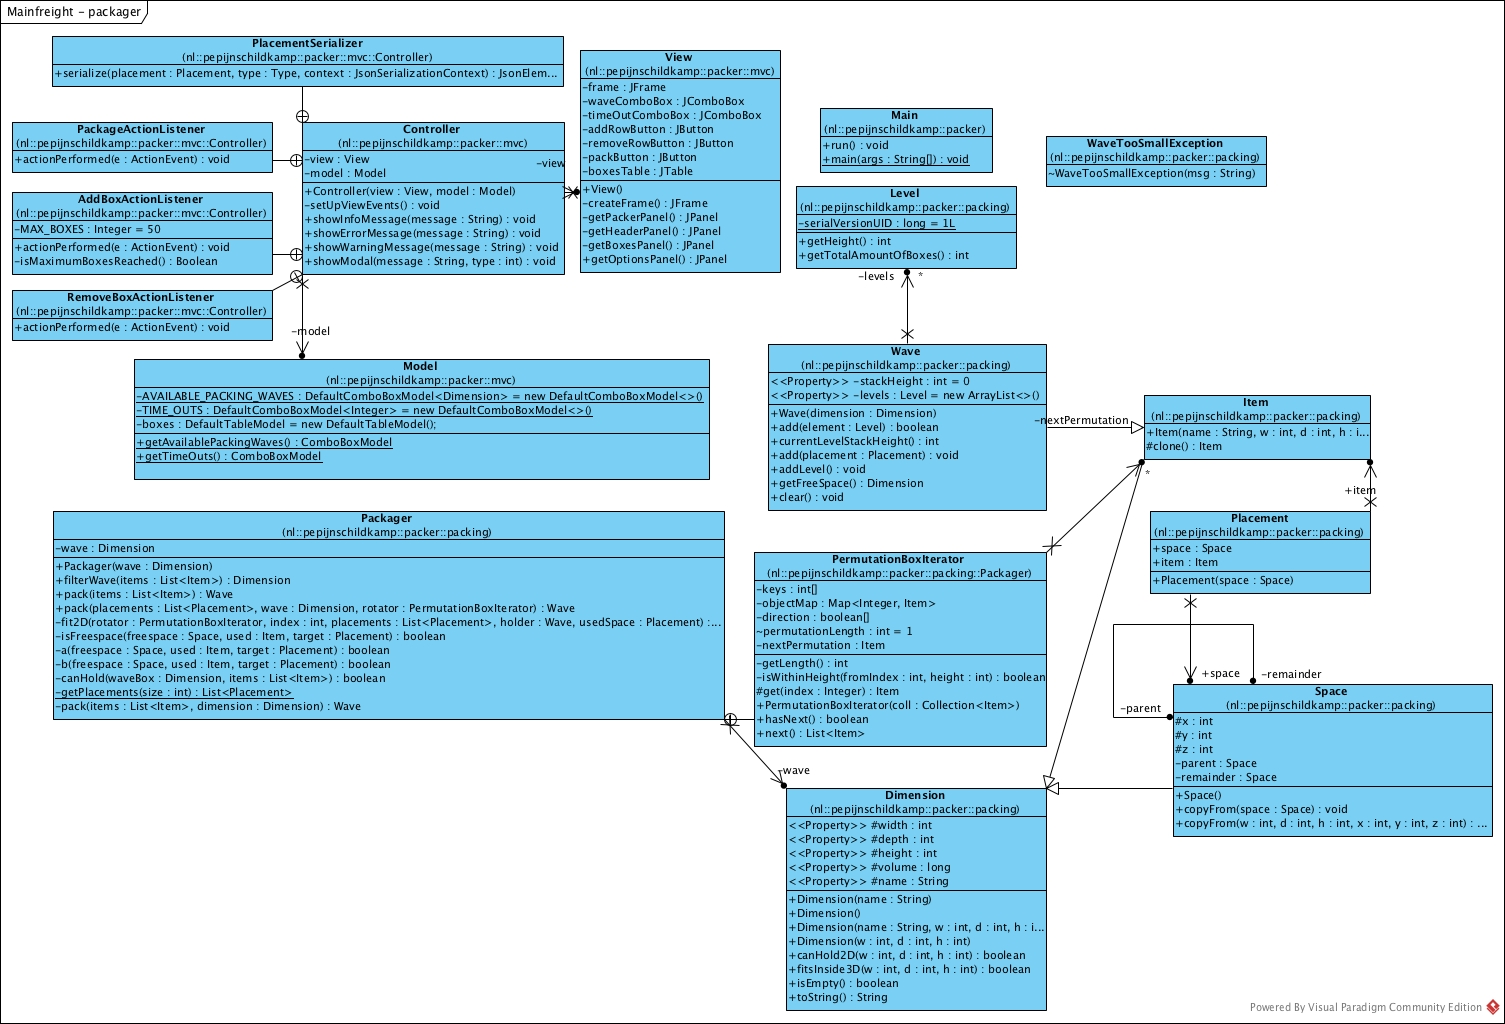
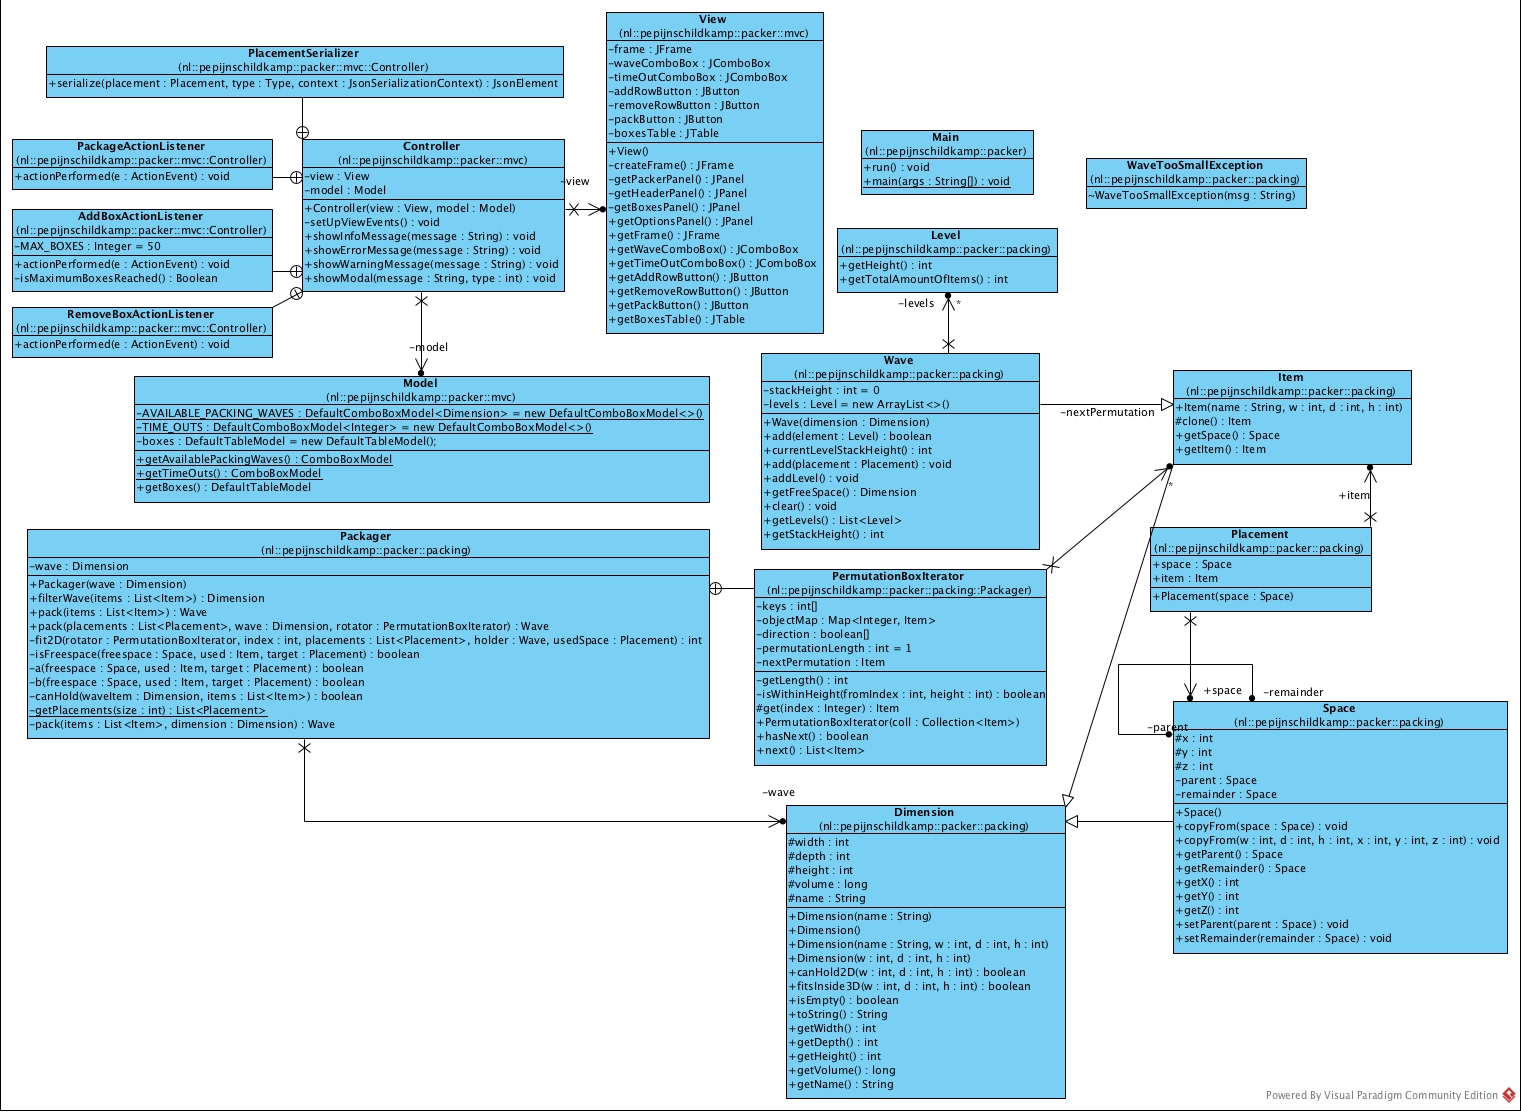
Working on exam

Changed region(s): [[0.0, 0.0, 0.9993, 1.0], [0.812, 0.9688, 0.9993, 1.0]]

diff --git a/src/main/java/nl/pepijnschildkamp/packer/packing/Packager.java b/src/main/java/nl/pepijnschildkamp/packer/packing/Packager.java
@@ -18,20 +18,18 @@ public class Packager {
         this.wave = wave;
     }
 
-    public Dimension filterWave(List<Item> items) {
+    private Dimension filterWave(List<Item> items) {
         long volume = 0;
         for (Item item : items) {
             volume += item.getVolume();
         }
 
-        if (wave.getVolume() < volume) {
+        if (wave.getVolume() < volume)
             throw new WaveTooSmallException(
                     "Wave (volume: " + wave.getVolume() + " is te klein voor al deze dozen (totaal volume: " + volume + ")");
-        }
 
-        if (!canHold(wave, items)) {
+        if (!canHold(wave, items))
             throw new WaveTooSmallException("Wave is te klein voor ingevoerde (enkele) dozen.");
-        }
 
         return wave;
     }
@@ -40,7 +38,7 @@ public class Packager {
         return pack(items, filterWave(items));
     }
 
-    public Wave pack(List<Placement> placements, Dimension wave, PermutationItemIterator rotator) {
+    private Wave pack(List<Placement> placements, Dimension wave, PermutationItemIterator rotator) {
         Wave holder = new Wave(wave);
 
         do {
@@ -50,7 +48,6 @@ public class Packager {
                 int index = 0;
                 while (index < rotator.getLength()) {
                     if (!rotator.isWithinHeight(index, remainingSpace.getHeight())) {
-                        // clean up
                         holder.clear();
                         continue;
                     }
@@ -195,9 +192,9 @@ public class Packager {
         return false;
     }
 
-    private boolean canHold(Dimension waveBox, List<Item> items) {
+    private boolean canHold(Dimension waveItem, List<Item> items) {
         for (Item item : items) {
-            if (!waveBox.canHold2D(item.getWidth(), item.getDepth(), item.getHeight())) {
+            if (!waveItem.canHold2D(item.getWidth(), item.getDepth(), item.getHeight())) {
                 return false;
             }
         }
@@ -239,7 +236,7 @@ public class Packager {
         private Map<Integer, Item> objectMap;
         private boolean[] direction;
         private List<Item> nextPermutation;
-        int permutationLength = 1;
+        private int permutationLength = 1;
 
         private int getLength() {
             return permutationLength - 1;
@@ -259,7 +256,7 @@ public class Packager {
             return objectMap.get(index);
         }
 
-        public PermutationItemIterator(Collection<Item> coll) {
+        protected PermutationItemIterator(Collection<Item> coll) {
             if (coll == null) {
                 throw new NullPointerException("The collection must not be null");
             } else {

diff --git a/src/main/java/nl/pepijnschildkamp/packer/packing/Wave.java b/src/main/java/nl/pepijnschildkamp/packer/packing/Wave.java
@@ -58,29 +58,4 @@ public class Wave extends Item {
         levels.clear();
         stackHeight = 0;
     }
-
-    public boolean equals(Object o) {
-        if (o == this) return true;
-        if (!(o instanceof Wave)) return false;
-        final Wave other = (Wave) o;
-        if (!other.canEqual((Object) this)) return false;
-        if (this.getStackHeight() != other.getStackHeight()) return false;
-        final Object this$levels = this.getLevels();
-        final Object other$levels = other.getLevels();
-        if (this$levels == null ? other$levels != null : !this$levels.equals(other$levels)) return false;
-        return true;
-    }
-
-    public int hashCode() {
-        final int PRIME = 59;
-        int result = 1;
-        result = result * PRIME + this.getStackHeight();
-        final Object $levels = this.getLevels();
-        result = result * PRIME + ($levels == null ? 43 : $levels.hashCode());
-        return result;
-    }
-
-    protected boolean canEqual(Object other) {
-        return other instanceof Wave;
-    }
 }

diff --git a/src/main/java/nl/pepijnschildkamp/packer/mvc/Controller.java b/src/main/java/nl/pepijnschildkamp/packer/mvc/Controller.java
@@ -139,7 +139,7 @@ public class Controller {
                     Wave future = findMatch.get(chosenTimeout, TimeUnit.SECONDS);
                     int totalAmountOfPackedBoxes = 0;
                     for (Level level: future.getLevels()) {
-                        totalAmountOfPackedBoxes += level.getTotalAmountOfBoxes();
+                        totalAmountOfPackedBoxes += level.getTotalAmountOfItems();
                     }
                     showInfoMessage("Succesvol " + totalAmountOfPackedBoxes + " dozen ingepakt.");
                 } catch (InterruptedException | ExecutionException futureException) {

diff --git a/src/main/java/nl/pepijnschildkamp/packer/packing/Level.java b/src/main/java/nl/pepijnschildkamp/packer/packing/Level.java
@@ -2,14 +2,7 @@ package nl.pepijnschildkamp.packer.packing;
 
 import java.util.ArrayList;
 
-/**
- * A level within a container
- * 
- */
-
 public class Level extends ArrayList<Placement> {
-
-    private static final long serialVersionUID = 1L;
 
     public int getHeight() {
         int height = 0;
@@ -24,7 +17,7 @@ public class Level extends ArrayList<Placement> {
         return height;
     }
 
-    public int getTotalAmountOfBoxes() {
+    public int getTotalAmountOfItems() {
         return size();
     }
 }

diff --git a/src/main/java/nl/pepijnschildkamp/packer/packing/Item.java b/src/main/java/nl/pepijnschildkamp/packer/packing/Item.java
@@ -1,12 +1,9 @@
 package nl.pepijnschildkamp.packer.packing;
 
-public class Item extends Dimension implements Cloneable {
+public class Item extends Dimension {
 
     public Item(String name, int w, int d, int h) {
         super(name, w, d, h);
     }
 
-    protected Item clone() {
-        return new Item(name, width, depth, height);
-    }
 }

diff --git a/src/main/java/nl/pepijnschildkamp/packer/packing/Placement.java b/src/main/java/nl/pepijnschildkamp/packer/packing/Placement.java
@@ -22,10 +22,6 @@ public class Placement {
         return this.item;
     }
 
-    public void setSpace(Space space) {
-        this.space = space;
-    }
-
     public void setItem(Item item) {
         this.item = item;
     }
